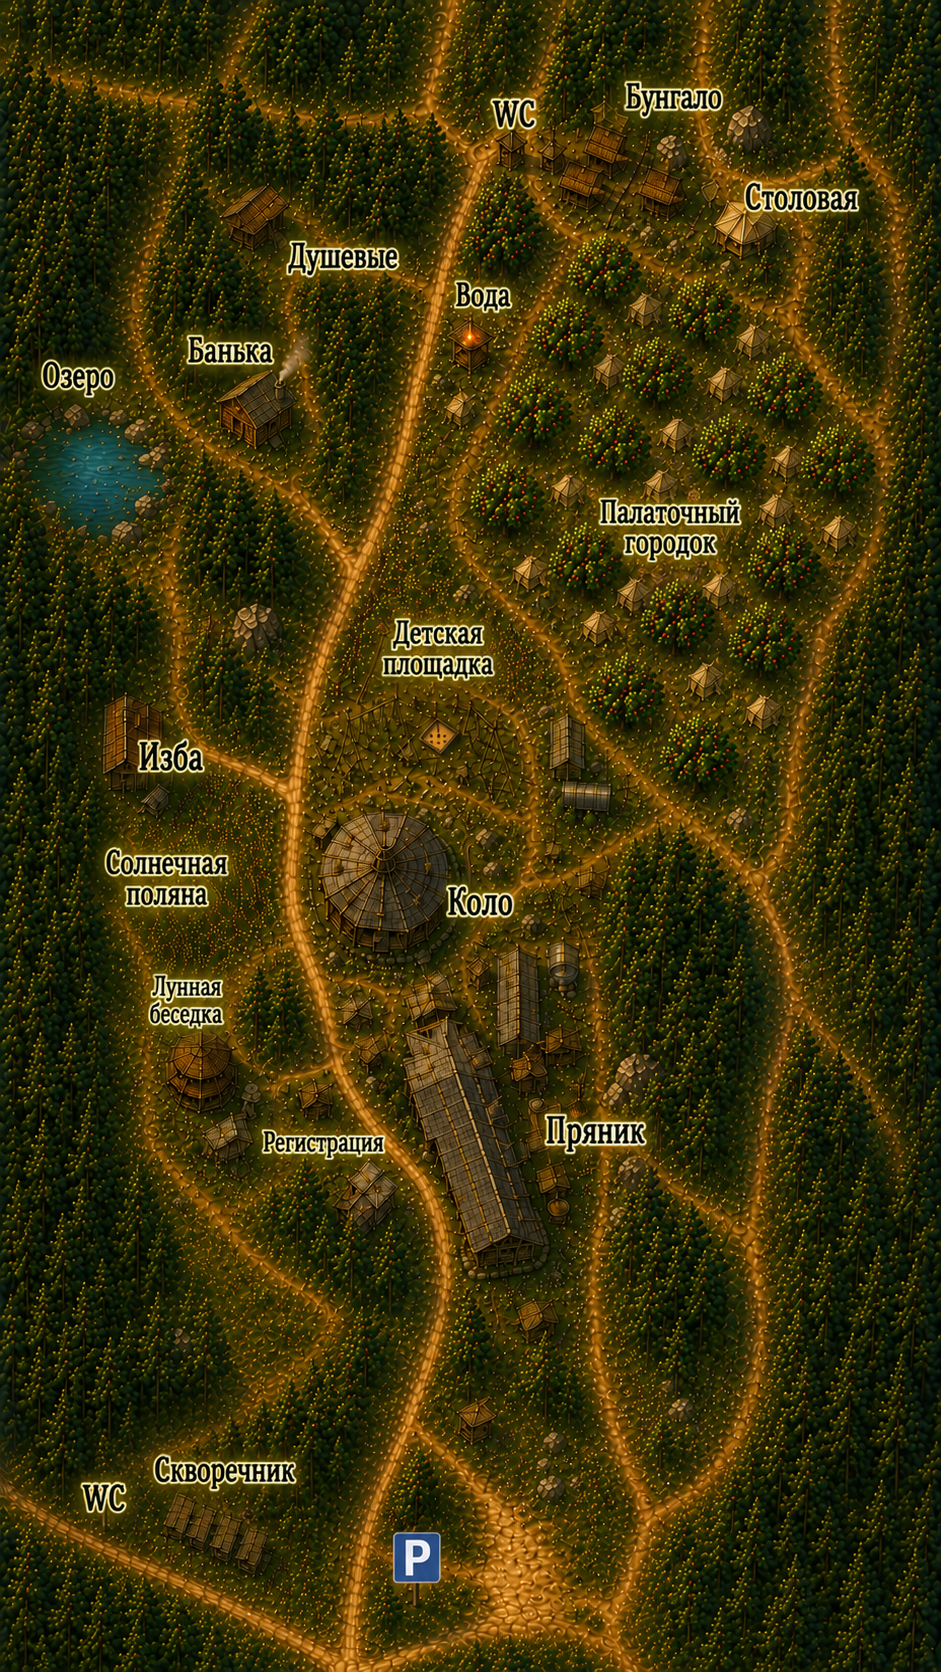
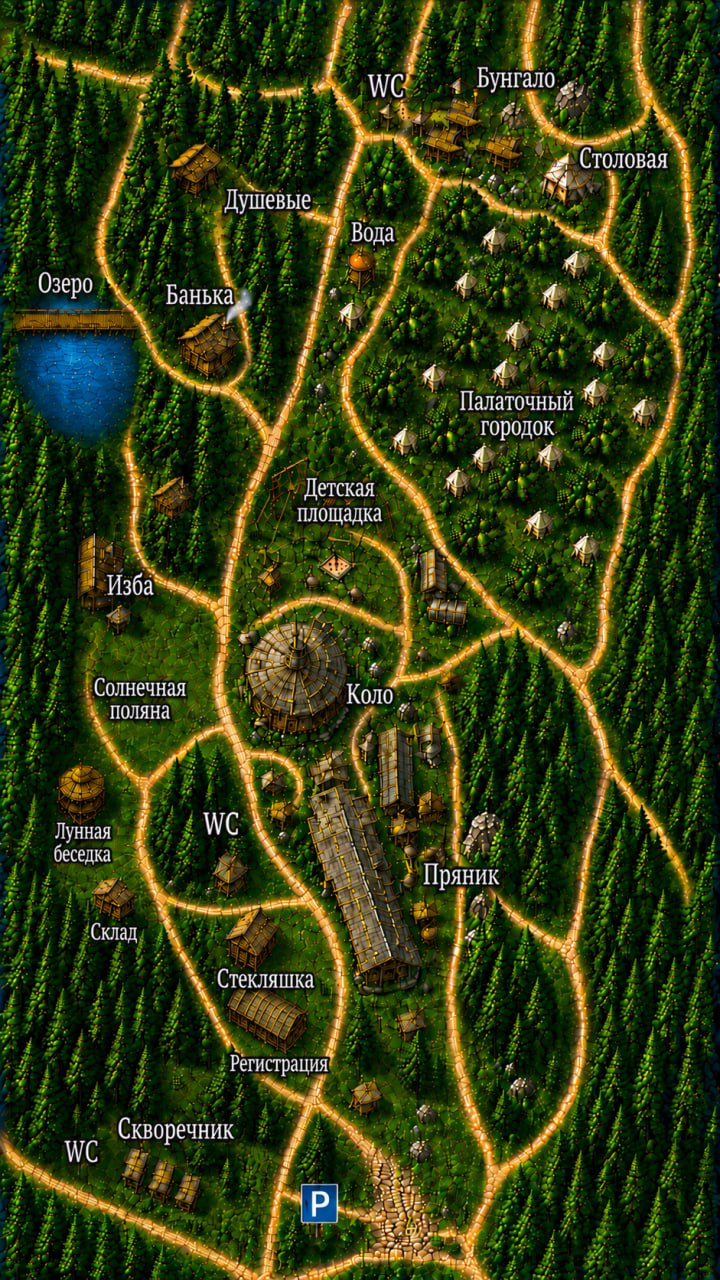
update: новая карта 720×1280 + пересчитана GPS-калибровка

diff --git a/map.html b/map.html
@@ -100,7 +100,7 @@
 
 <div id="scene">
   <div id="layer">
-    <img id="map-img" src="map.png?v=2" draggable="false">
+    <img id="map-img" src="map.png?v=3" draggable="false">
   </div>
   <div id="ring"></div>
   <div id="dot"></div>
@@ -115,17 +115,16 @@ const tg = window.Telegram?.WebApp;
 if (tg) { tg.ready(); tg.expand(); }
 
 // ── Константы ──────────────────────────────────────────────────────
-const IMG_W = 941, IMG_H = 1672;
+const IMG_W = 720, IMG_H = 1280;
 
-// GPS-калибровка (две точки + подтверждено Коло)
-// Бунгало (649,117) → (54.072371, 27.788253)
-// Скворечники (198,1488) → (54.070868, 27.783794)
-// Коло (407,822) → (54.071613, 27.785933) — погрешность 0.1 м ✓
-const A_PX  = [198, 1488];
+// GPS-калибровка (пересчитана пропорционально из 941×1672 → 720×1280)
+// Скворечники (152,1139) → (54.070868, 27.783794)
+// Коло расчётный (312,630) — погрешность 1 пиксель ✓
+const A_PX  = [152, 1139];
 const A_GPS = [54.070868, 27.783794];
 const THETA = 41.92 * Math.PI / 180;
 const CT = Math.cos(THETA), ST = Math.sin(THETA);
-const S   = 0.23274; // м/пиксель
+const S   = 0.30424; // м/пиксель
 const M_LAT = 111320;
 const M_LNG = 111320 * Math.cos(A_GPS[0] * Math.PI / 180);
 
